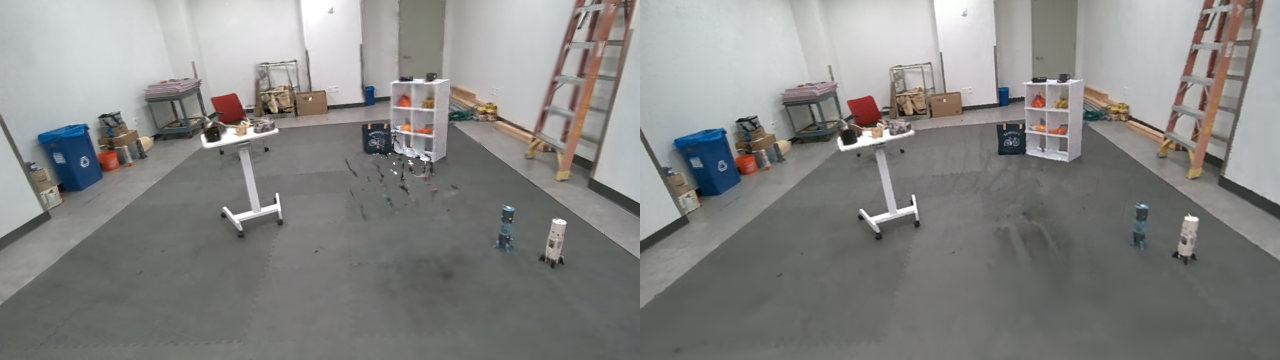
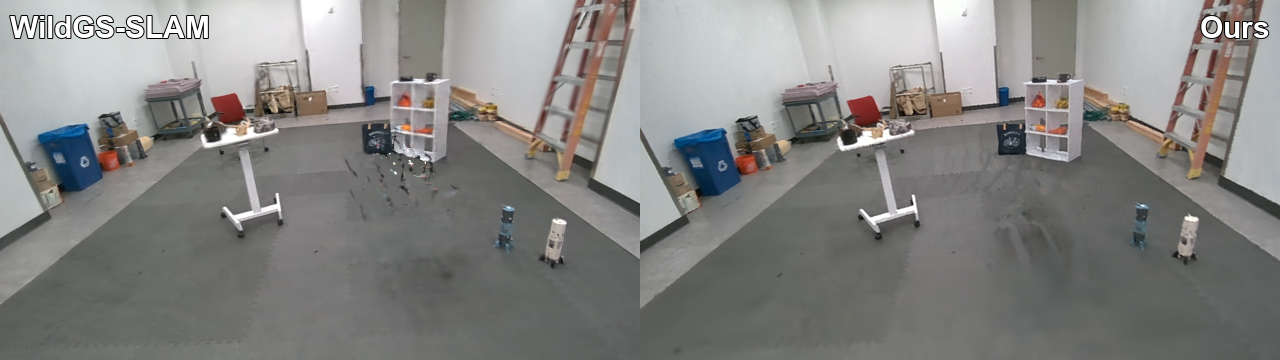
Update project

Changed region(s): [[0.0, 0.0306, 0.1875, 0.1222], [0.9375, 0.0306, 1.0, 0.1222]]

diff --git a/index.html b/index.html
@@ -479,25 +479,6 @@ Dynamic Visual SLAM with 3D Foundation Model">
           </div> 
         </p>
 
-        <div style="height: 50px;"></div>
-        <h3 class="title is-4">Compared with WildGS-SLAM</h3>
-
-        <!-- <br> -->
-        <h3 class="title is-5"></h3>
-        <p style="margin-top: -60px">
-          <div class="container is-max-desktop">
-            <div class="hero-body">
-              <div class="columns is-centered has-text-centered">
-                <div class="column is-full-width">
-                  <img class="img" width="50%" id="move" src="static/videos/merged_any.png">
-
-                </div>
-              </div>
-            </div>
-          </div>
-        </p>
-
-
 
       </div>
     </div>
@@ -506,6 +487,52 @@ Dynamic Visual SLAM with 3D Foundation Model">
 </section>
 
 
+
+
+
+<section class="section">
+  <div class="container is-max-desktop">
+
+    <h2 class="title is-3 has-text-centered">
+      Visual Comparison
+    </h2>
+
+    <div class="columns is-centered">
+      <div class="column is-two-thirds">
+
+        <div id="example1" class="bal-container-small">
+
+          <!-- Right image -->
+          <div class="bal-after">
+            <img src="static/videos/any1wild.png">
+            <div class="bal-afterPosition afterLabel">
+              WildGS-SLAM
+            </div>
+          </div>
+
+          <!-- Left image -->
+          <div class="bal-before">
+            <div class="bal-before-inset">
+              <img src="static/videos/any1wild.png">
+              <div class="bal-beforePosition beforeLabel">
+                WildGS-SLAM
+              </div>
+            </div>
+          </div>
+
+          <!-- Slider -->
+          <div class="bal-handle">
+            <span class="handle-left-arrow"></span>
+            <span class="handle-right-arrow"></span>
+          </div>
+
+        </div>
+
+      </div>
+    </div>
+
+  </div>
+</section>
 
 <!--<section class="section">-->
 